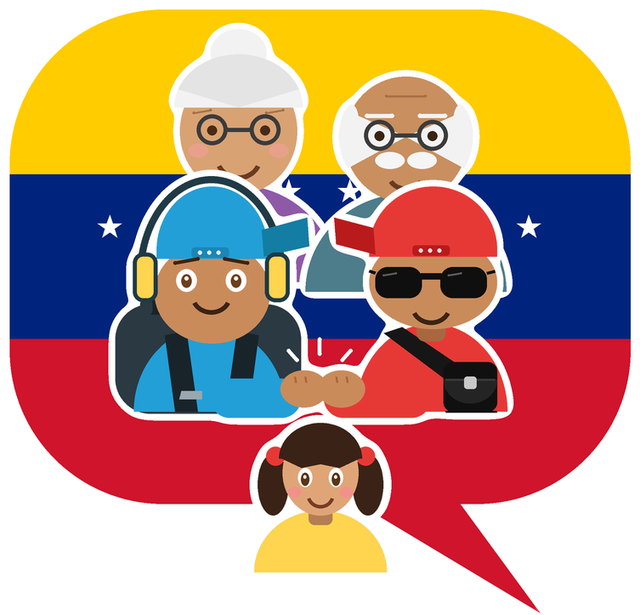
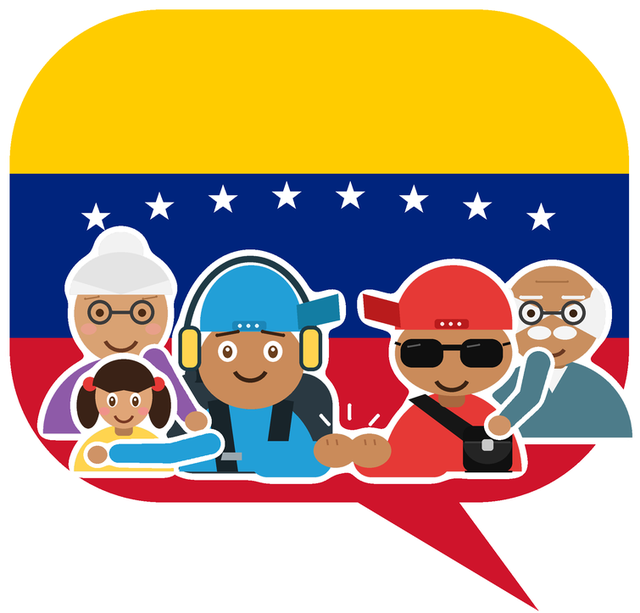
Web: ícono actualizado en la sección de generaciones
Claude-Session: https://claude.ai/code/session_016SH2FLmY4JWmgoaF6y6GX7

diff --git a/index.html b/index.html
@@ -291,7 +291,7 @@ footer b { color: var(--ink); letter-spacing: .24em; font-size: 13px; }
 <section id="generaciones">
   <div class="wrap gen">
     <figure>
-      <img src="img/chamos-generaciones.png" width="640" height="615" loading="lazy" alt="Ícono de Chamos: dos jóvenes chocando los puños, dos abuelos detrás de ellos y una niña al frente, sobre la bandera de Venezuela">
+      <img src="img/chamos-generaciones.png" width="640" height="613" loading="lazy" alt="Ícono de Chamos: dos jóvenes chocando los puños, una niña abrazada por el chamo de gorra azul y dos abuelos abrazando a los chamos, sobre la bandera de Venezuela">
     </figure>
     <div>
       <p class="kicker">Todas las generaciones</p>
